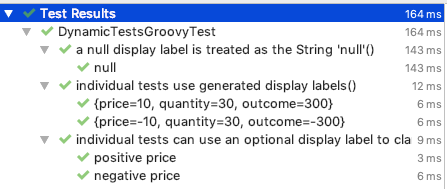
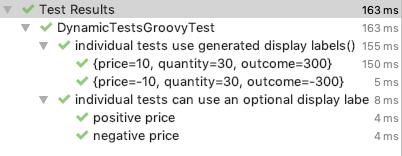
include only standard parameterized tests in doc

diff --git a/webtau-docs/webtau/groovy-specific-runner/data-driven-scenarios.md b/webtau-docs/webtau/groovy-specific-runner/data-driven-scenarios.md
@@ -24,8 +24,9 @@ Use `TableData` if you want to derive data and/or have a convenience of collocat
 With the additional annotation `@TestFactory` you can use `TableData` as an easy-to-read source of 
 similar but independent tests where each row is treated as its own test (comparable to JUnit's 
 parameterized tests), optionally with a descriptive label. 
- 
-:include-file: com/example/tests/junit5/DynamicTestsGroovyTest.groovy {title: "Parameterized TableData-driven tests"}
+Here are examples of parameterized tests with and without labels, and how an IDE uses the label for display purposes:
+:include-groovy: com/example/tests/junit5/DynamicTestsGroovyTest.groovy {title: "Parameterized tests without explicit label", entry: "individual tests use generated display labels"}
 
-IDEs can make good use of labels:
+:include-groovy: com/example/tests/junit5/DynamicTestsGroovyTest.groovy {title: "Parameterized tests with explicit label", entry: "individual tests can use an optional display label to clarify the use case"}
+
 :include-image: img/intellij-parameterized-tests.png
